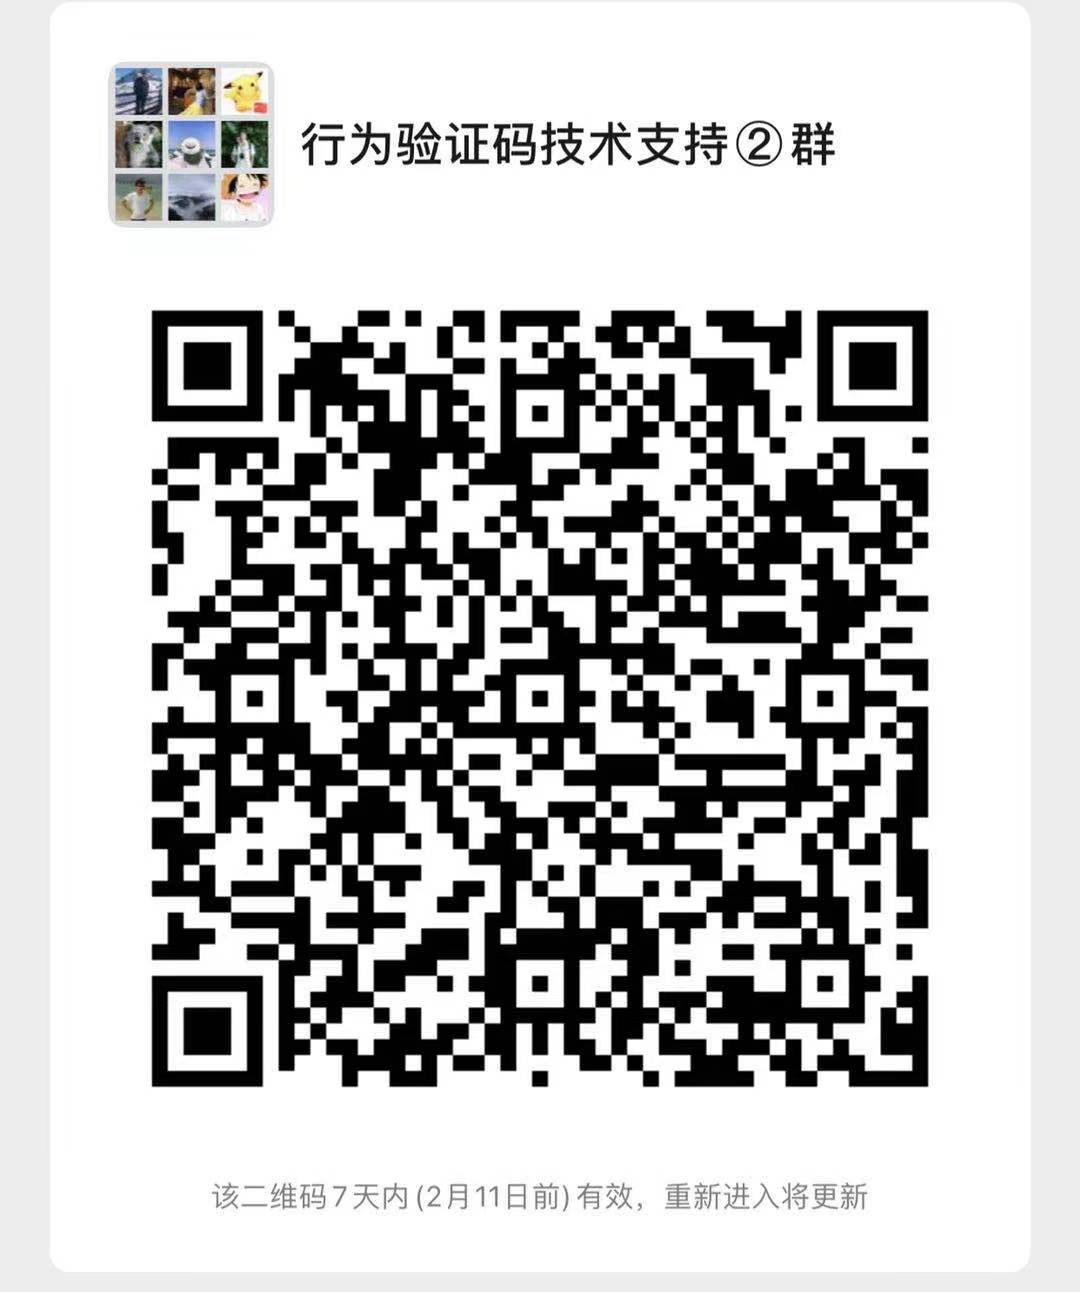
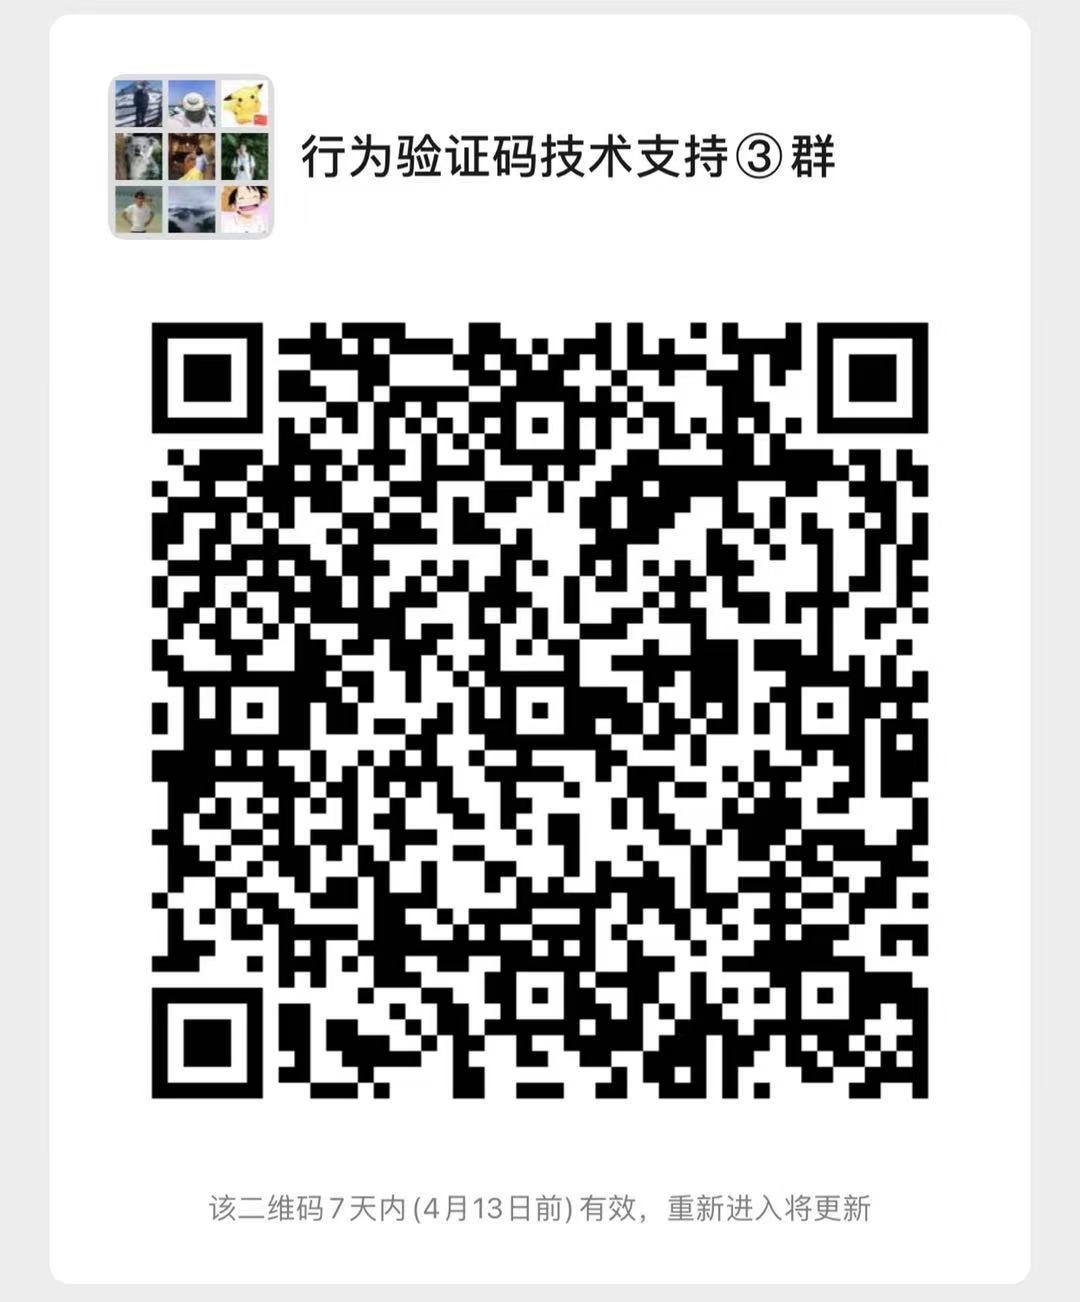
react

diff --git a/README_CN.md b/README_CN.md
@@ -75,11 +75,17 @@ I  Your application is running here: http://localhost:8081
 #### &emsp; 6.2 增加ReactNative示例(已添加)
 
 # 7 技术支持微信群
-微信一群已满，现开放二群。github可能有缓存，不会自动更新。
+微信一二群已满，现开放三群。微信群码会不定期更新。
 <br>微信群地址：https://captcha.anji-plus.com/static/weixin.png
-<img src="https://captcha.anji-plus.com/static/weixin.png" width = "200" height = "200" div align=left />
+
+| 微信 | qq |
+| --- | --- |
+|<img src="https://captcha.anji-plus.com/static/weixin.png" width = "300" height = "300" div align=left />|<img src="https://captcha.anji-plus.com/static/qq.png" width = "300" height = "300" div align=left />|
+
+<br>
 
  #### 开源不易，劳烦各位star ☺
+<br>
 
 # Stargazers over time
 [![Stargazers over time](https://whnb.wang/img/anji-plus/captcha?e=604800)](https://whnb.wang/anji-plus/captcha?e=604800)

diff --git a/README.md b/README.md
@@ -75,7 +75,11 @@ Ajplus Captcha , an open source toolset for users,its main Features are as follo
 # 7. Connect Us
 
 [Wechat group] (https://captcha.anji-plus.com/static/weixin.png)
-<img src="https://captcha.anji-plus.com/static/weixin.png" width = "200" height = "200" div align=left />
 
+| Wechat | qq |
+| --- | --- |
+|<img src="https://captcha.anji-plus.com/static/weixin.png" width = "300" height = "300" div align=left />|<img src="https://captcha.anji-plus.com/static/qq.png" width = "300" height = "300" div align=left />|
+
+<br>
  ### Have a try & enjoy it !!!  ☺
 
